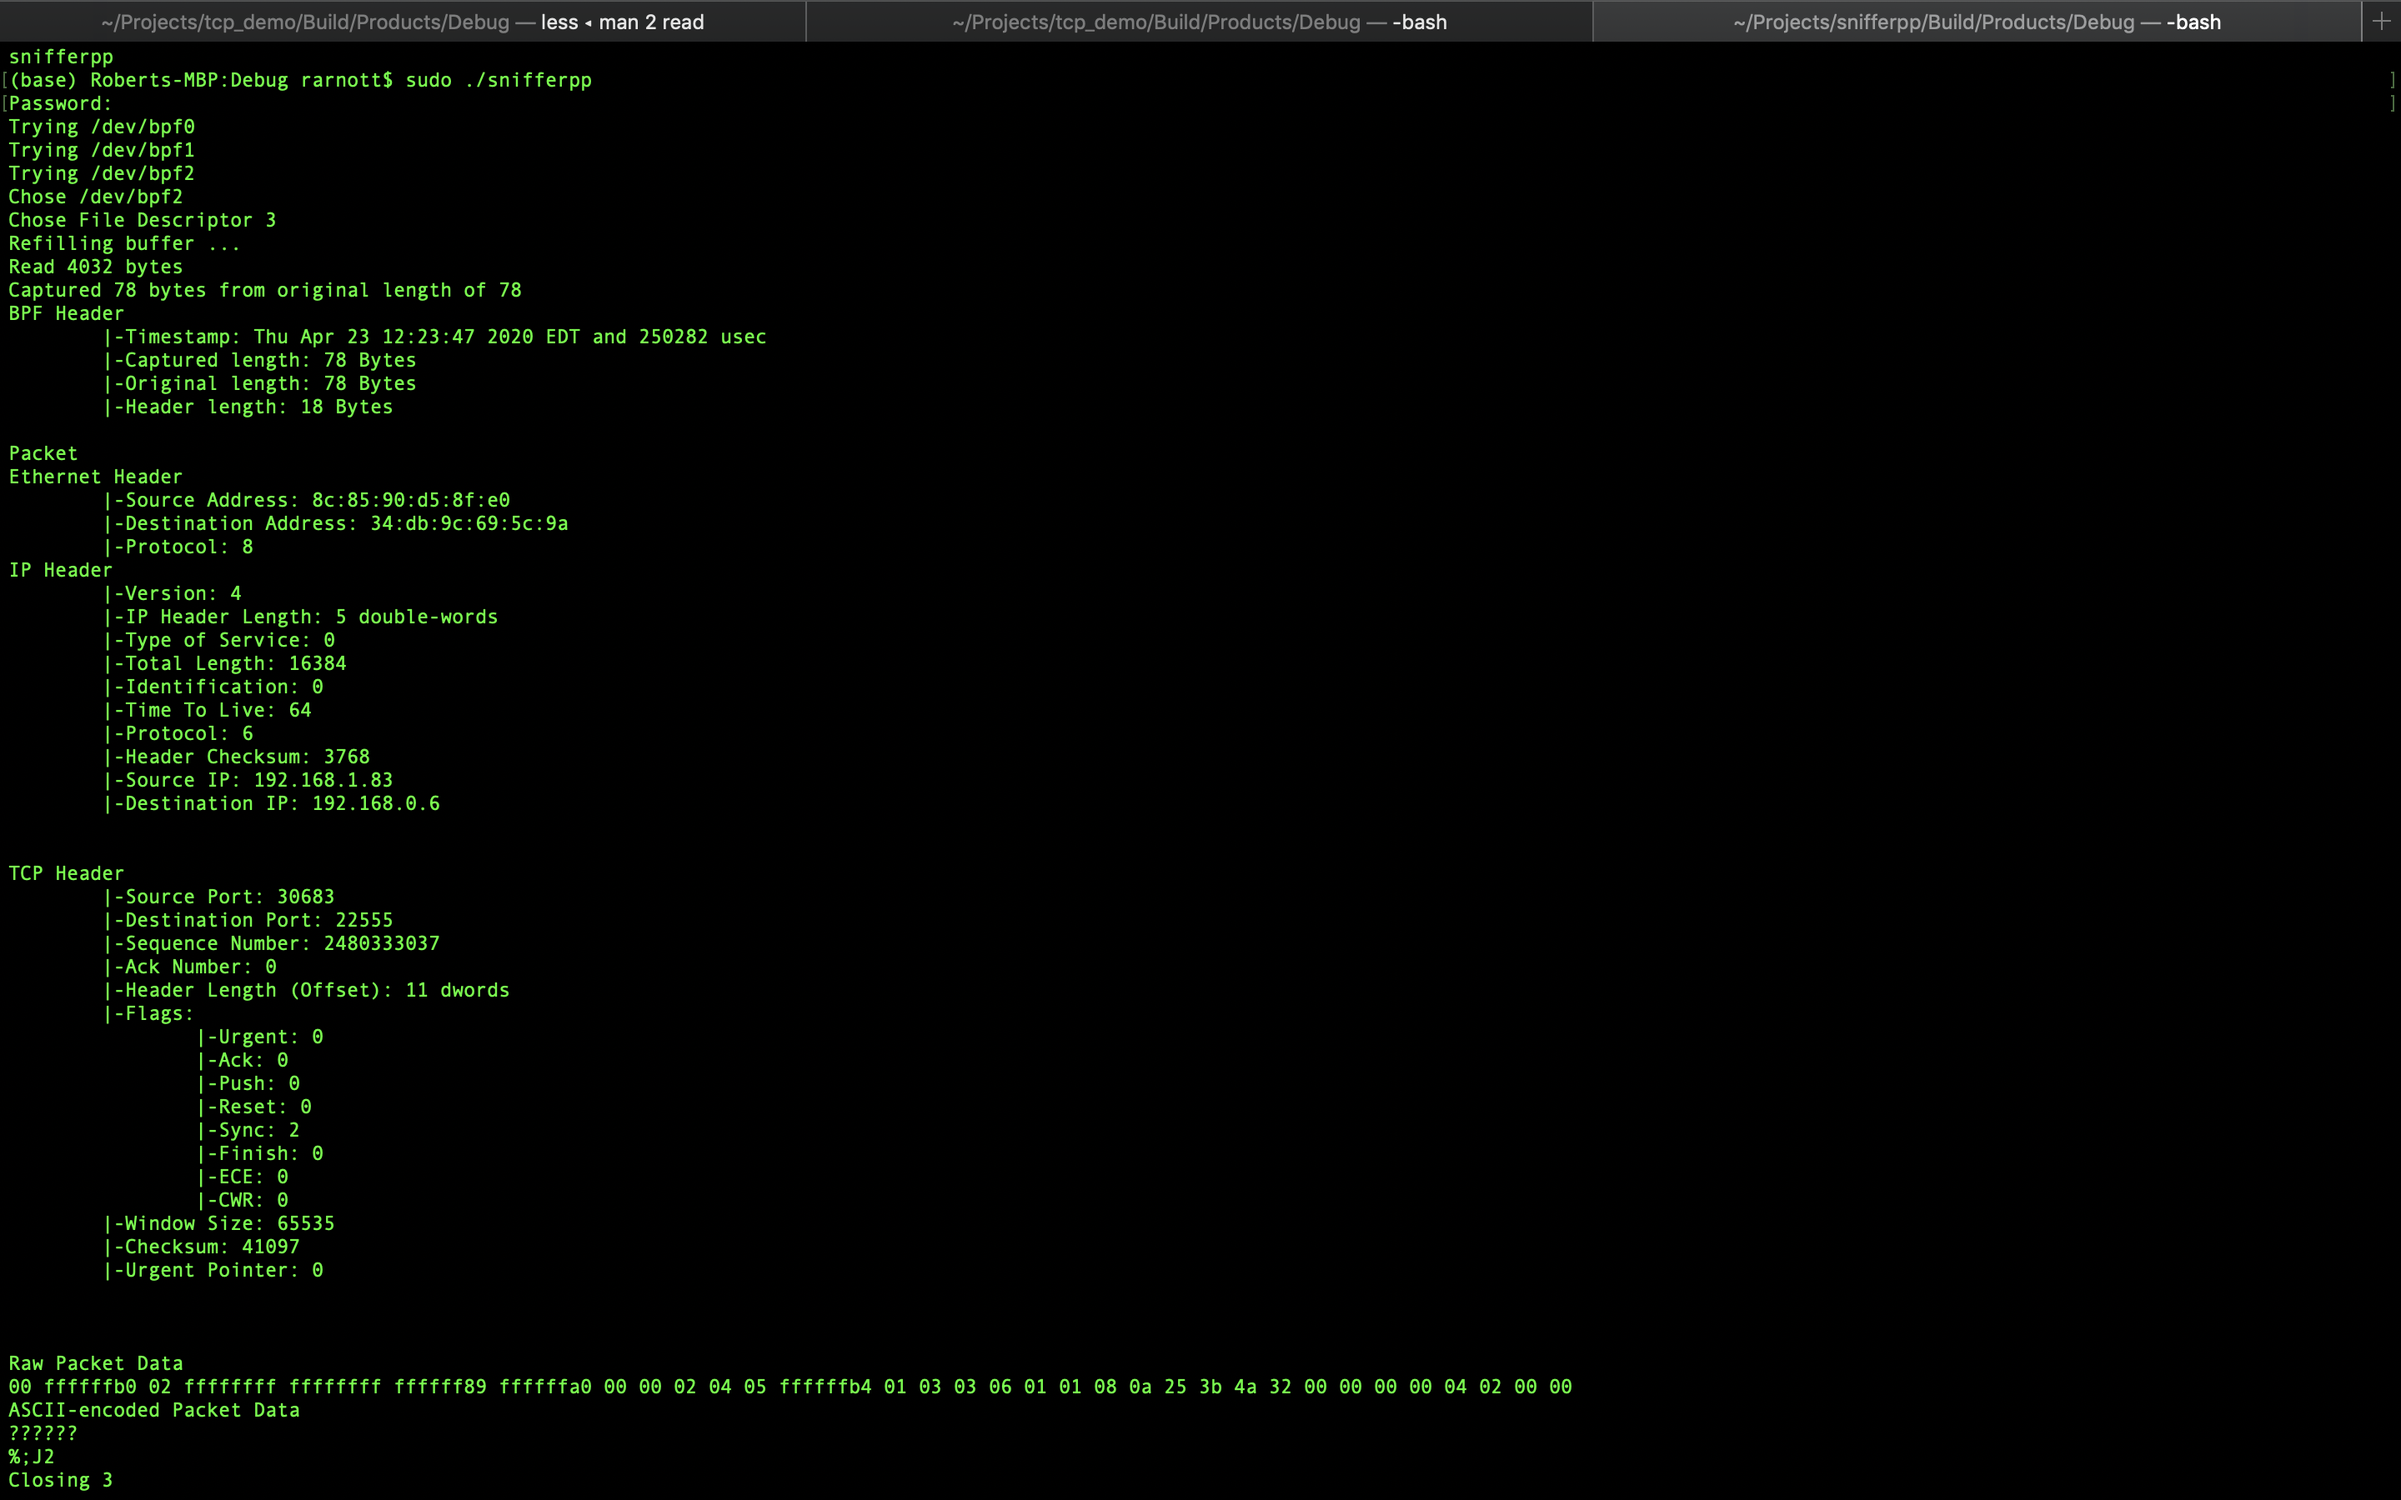
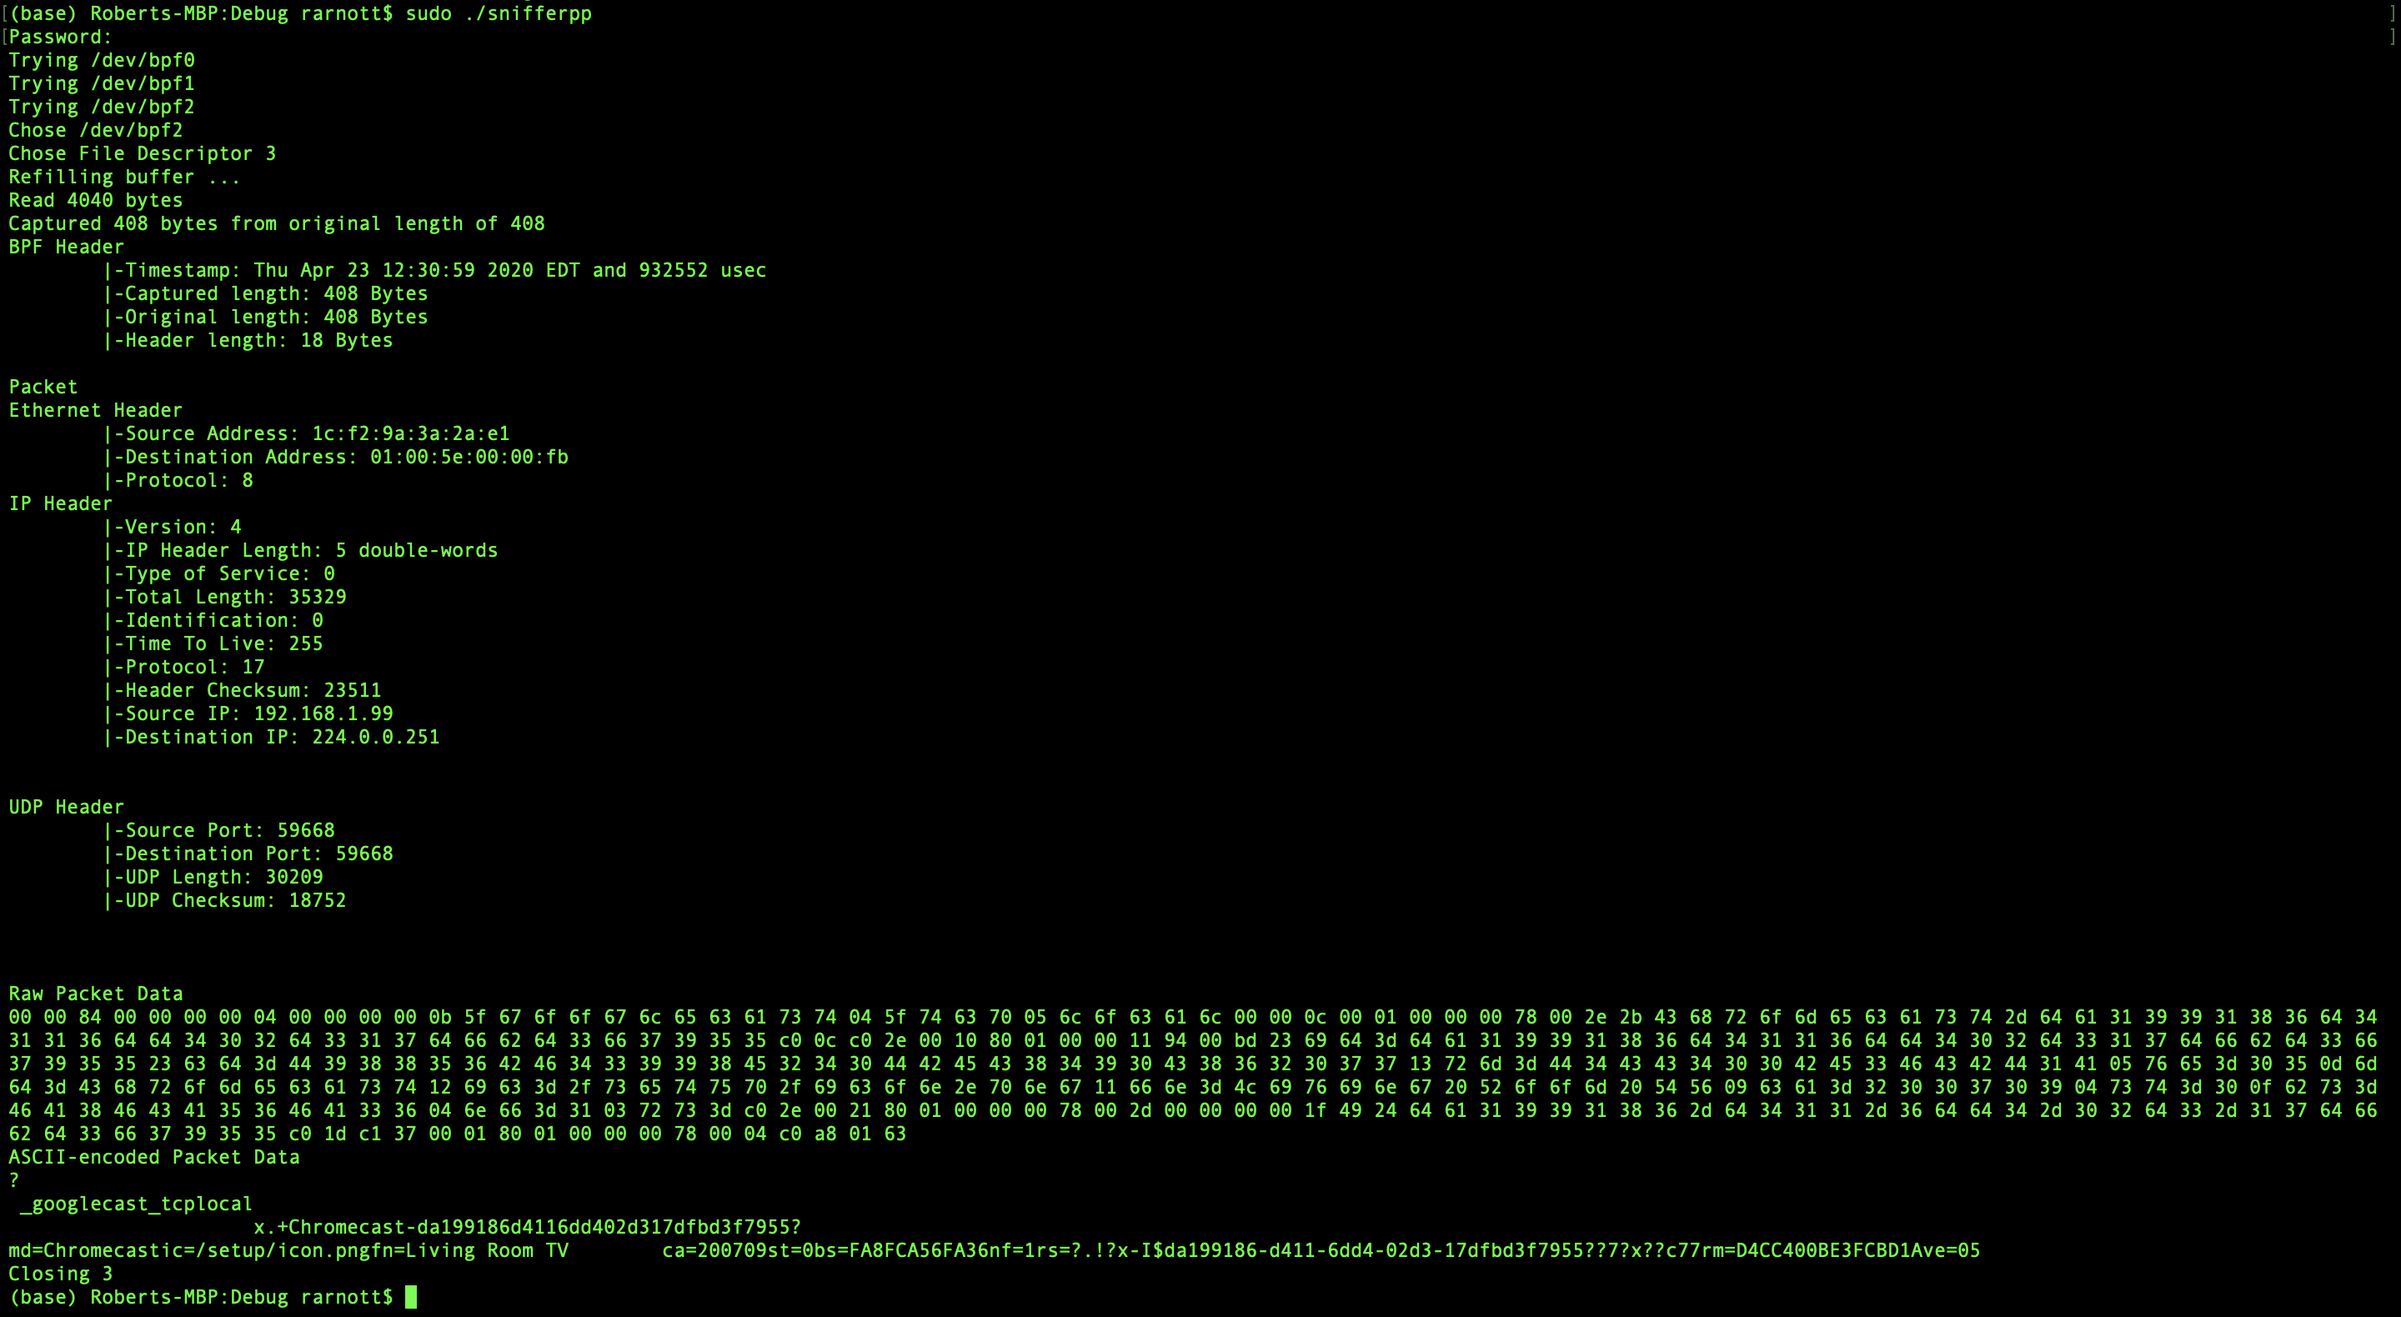
Fixed printout of raw bytes in Packet.cpp

Changed region(s): [[0.0, 0.2791, 1.0, 0.9924], [0.0, 0.0, 1.0, 0.2791], [0.1875, 0.6513, 0.2188, 0.6823]]

diff --git a/snifferpp/Packet_Lib/Packet.cpp b/snifferpp/Packet_Lib/Packet.cpp
@@ -35,7 +35,7 @@ std::ostream& operator<<(std::ostream& os, Packet p){
     os << p.get_header() << endl;
     os << "Raw Packet Data" << endl;
     for(auto b : p.get_data()) {
-        os << std::setfill('0') << std::setw(2) << std::hex << +b << " ";
+        os << std::setfill('0') << std::setw(2) << std::hex << (0xff & b) << " ";
     } // TODO: this is a jank way of doing this, unclear if right
     os << endl;
     os.copyfmt(tmp);
